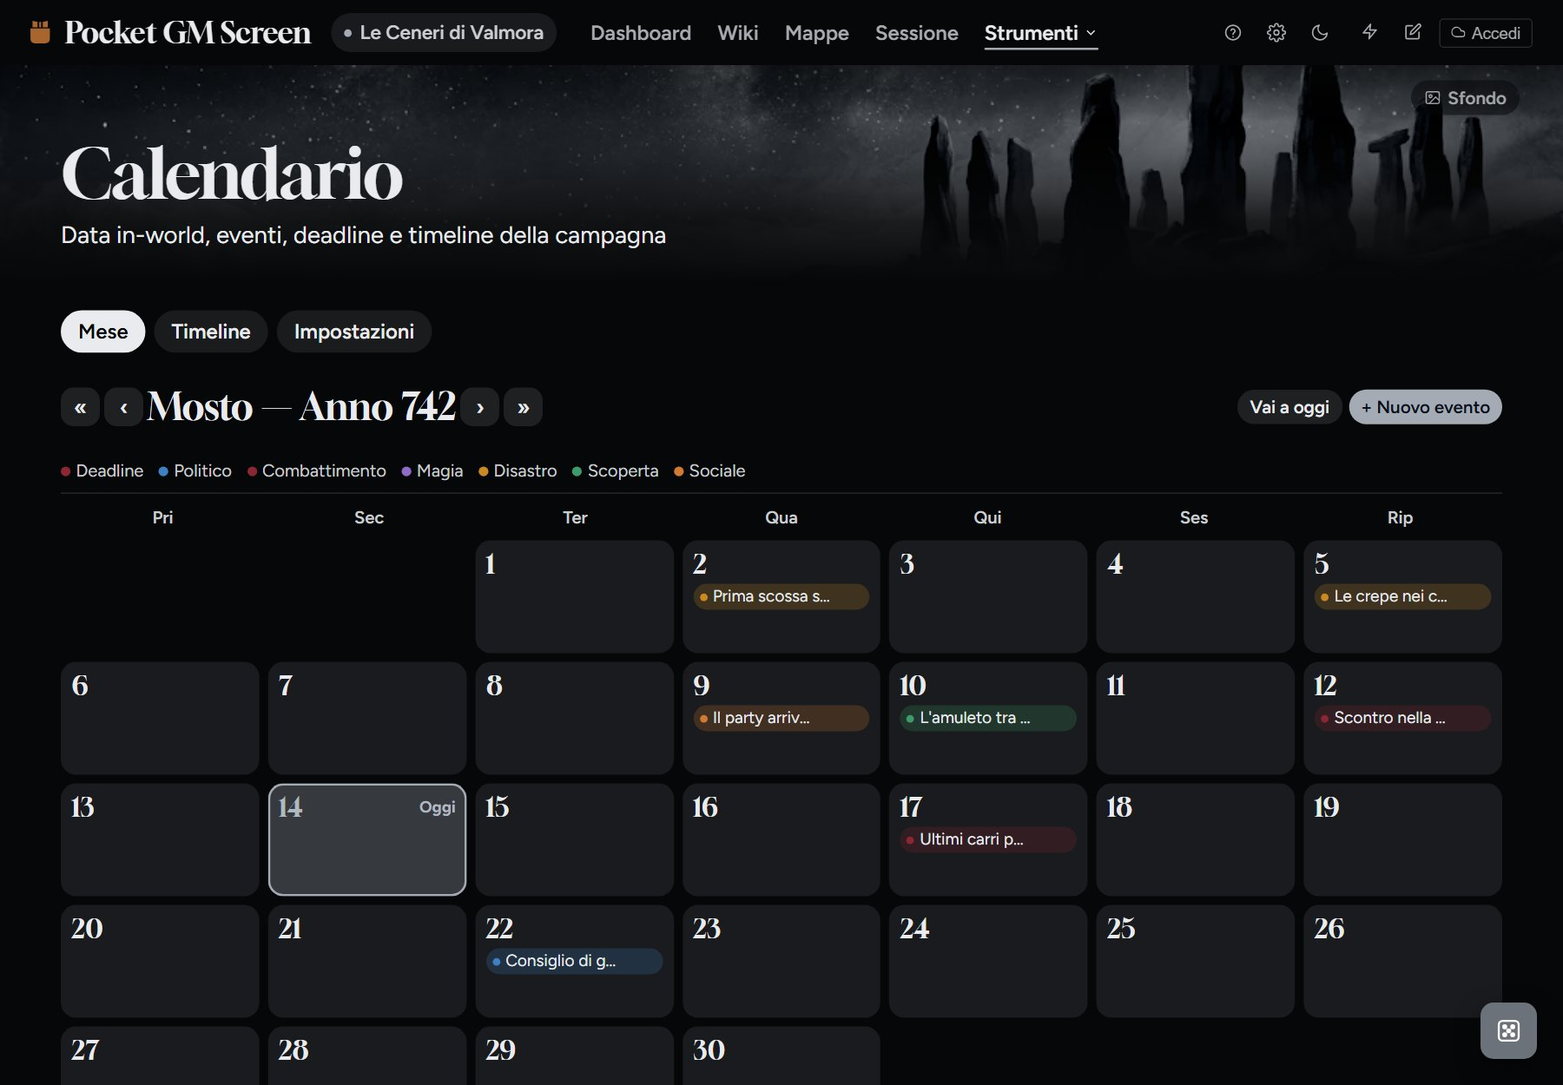
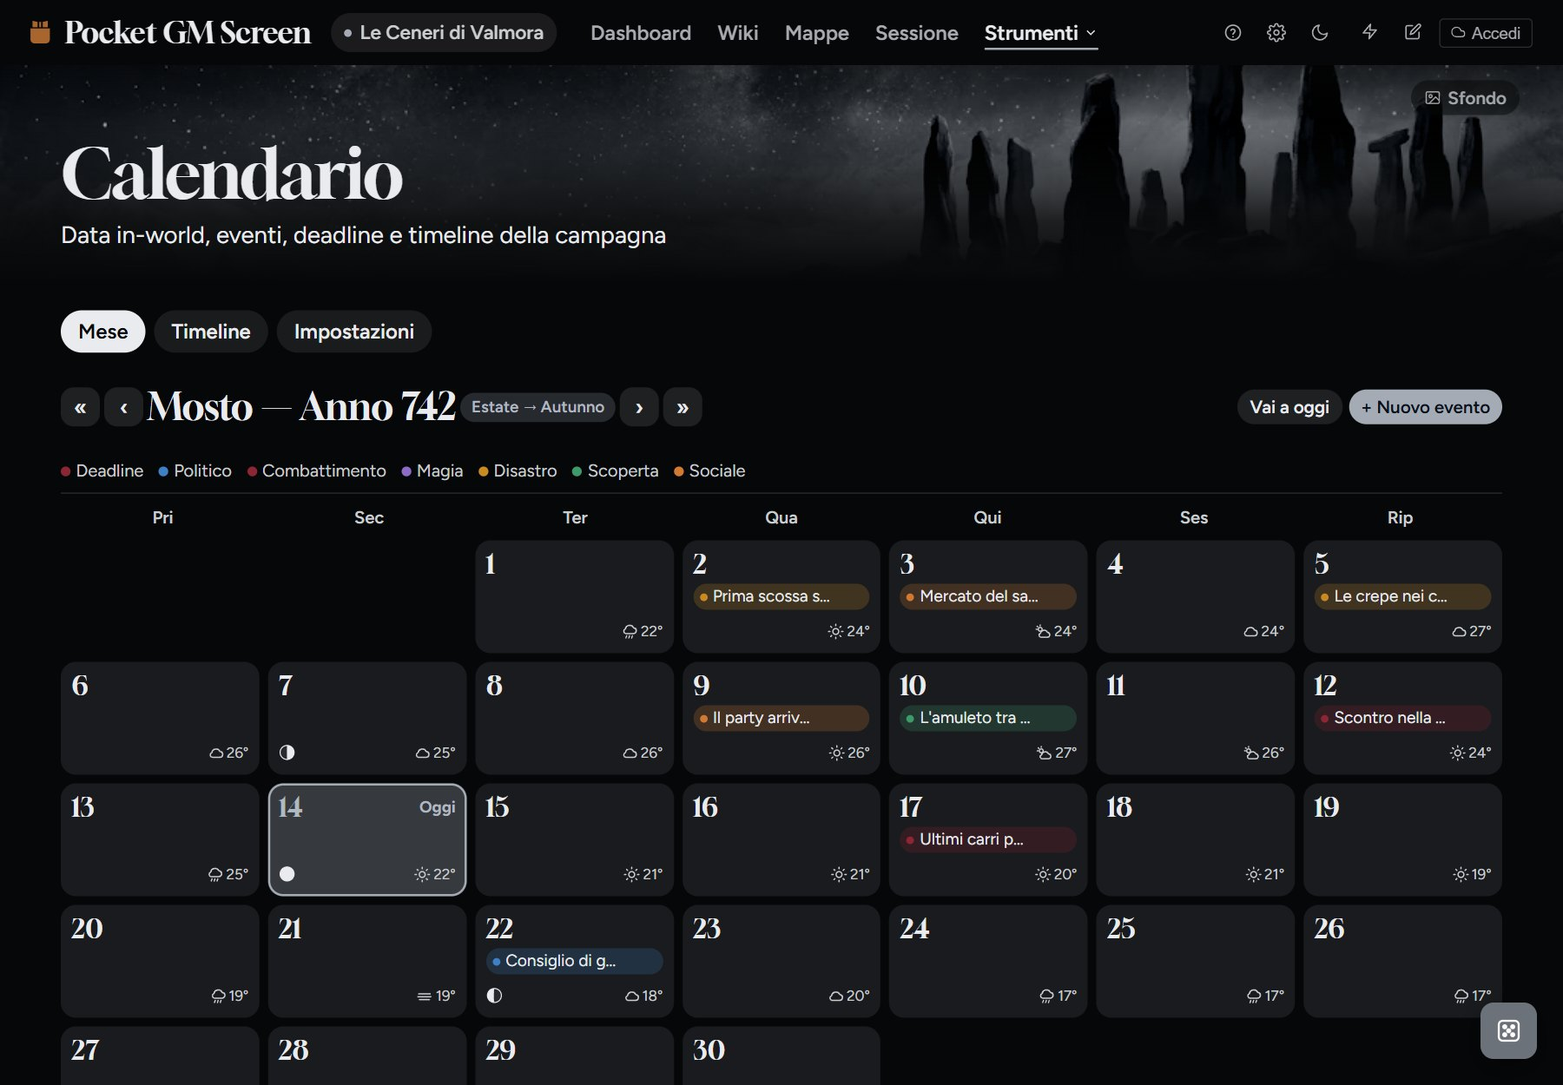
README e sito di presentazione aggiornati con le novità: esagoni ed esplorazione, confini dei regni, città con cimitero e baraccopoli, dungeon su più livelli, ritocchi, tavolo virtuale e stampa in scala, calendario con lune, meteo, bisestili, ere ed eventi ricorrenti, nuovi documenti dello Scrittoio
Claude-Session: https://claude.ai/code/session_018s2b7TkTFsw8VGthisxdvy

diff --git a/scopri/funzioni.html b/scopri/funzioni.html
@@ -32,7 +32,7 @@
 <div class="wrap testa-pagina">
   <h1>Le funzioni di Pocket GM Screen</h1>
   <p class="lead">Dalla preparazione al tavolo. Puoi vederle tutte all’opera nella campagna di esempio.</p>
-  <ul class="indice"><li><a href="#wiki">Wiki e mondo</a></li><li><a href="#mappe">Mappe e Cartografo</a></li><li><a href="#scrittoio">Scrittoio</a></li><li><a href="#sessioni">Sessioni e combattimento</a></li><li><a href="#generatori">Generatori e tabelle</a></li><li><a href="#compendio">Compendio</a></li><li><a href="#tavolo">Sessione Zero e tavolo</a></li><li><a href="#musica">Musica e atmosfere</a></li><li><a href="#giocatori">Giocatori e condivisione</a></li></ul>
+  <ul class="indice"><li><a href="#wiki">Wiki e mondo</a></li><li><a href="#mappe">Mappe e Cartografo</a></li><li><a href="#scrittoio">Scrittoio</a></li><li><a href="#sessioni">Sessioni e combattimento</a></li><li><a href="#calendario">Calendario</a></li><li><a href="#generatori">Generatori e tabelle</a></li><li><a href="#compendio">Compendio</a></li><li><a href="#tavolo">Sessione Zero e tavolo</a></li><li><a href="#musica">Musica e atmosfere</a></li><li><a href="#giocatori">Giocatori e condivisione</a></li></ul>
 </div>
 <section id="wiki"><div class="wrap funzione">
   <div>
@@ -57,7 +57,13 @@
     <ul>
       <li><strong>Dal regno alla locanda:</strong> clicchi il segnaposto di un luogo e generi la sua mappa, già collegata e con ciò che si vede dall’alto, come mare e fiume.</li>
       <li><strong>Pronte da usare:</strong> scala impostata e luoghi segnati dai segnaposto con le loro note. A richiesta crea anche le schede nella Wiki.</li>
-      <li><strong>Percorsi e viaggi:</strong> clicchi una tappa dopo l’altra, sui segnaposto o lungo la strada, e vedi i km di ogni tratto e quanto ci vuole a piedi, a cavallo, in barca o in nave, secondo il terreno.</li>
+      <li><strong>Percorsi e viaggi:</strong> clicchi una tappa dopo l’altra, sui segnaposto o lungo la strada, e vedi i km di ogni tratto e quanto ci vuole a piedi, a cavallo, in barca o in nave, secondo il terreno. Il tempo del viaggio passa anche nel calendario.</li>
+      <li><strong>Esagoni ed esplorazione:</strong> una griglia esagonale da accendere su ogni mappa. Segni gli esagoni esplorati, sposti il gruppo e vedi quanto dura il viaggio, scrivi note che vedi solo tu.</li>
+      <li><strong>Regni con i confini:</strong> da due a sei regni, con confini che seguono monti e fiumi e il nome di ogni regno sulla mappa.</li>
+      <li><strong>Città vere:</strong> mura, castello, porto, il cimitero fuori dalle porte e le baracche addossate alle mura.</li>
+      <li><strong>Dungeon su più livelli:</strong> fino a tre, collegati dalle scale.</li>
+      <li><strong>Ritocchi:</strong> rinomini o nascondi i nomi sulla mappa e aggiungi scritte tue con un tocco.</li>
+      <li><strong>Al tavolo, anche con le miniature:</strong> dungeon e case si esportano per Foundry, Roll20 e gli altri tavoli virtuali, con muri e porte già pronti, o si stampano in scala su fogli A4 da unire.</li>
       <li><strong>Tre colori:</strong> Carta, chiara e da stampare; Colori, con prati, boschi e mari colorati; Notte, su blu notte. Montagne, boschi e città si riconoscono a colpo d’occhio.</li>
       <li><strong>Nomi per ogni popolo:</strong> all’italiana, elfici, nanici, orcheschi o nordici. La mappa di un luogo eredita i nomi della regione da cui nasce.</li>
       <li><strong>Il caso, se vuoi:</strong> scegli ogni opzione oppure lasciala al caso, tenendo i tuoi colori.</li>
@@ -71,8 +77,10 @@
     <h2>Scrittoio</h2>
     <p>Quello che i giocatori possono tenere in mano, scritto con i nomi della tua campagna.</p>
     <ul>
-      <li><strong>Stemmi:</strong> forma, colori, simbolo, corona, mantello e motto, per fazioni e luoghi. Se ne hai uno tuo, caricalo nella scheda.</li>
-      <li><strong>Documenti:</strong> lettere sigillate, taglie, editti, avvisi da bacheca e mappe del tesoro, con il testo sempre modificabile.</li>
+      <li><strong>Stemmi:</strong> forma, colori, simbolo, corona, mantello e motto, per fazioni e luoghi, con la blasonatura scritta sotto. Se ne hai uno tuo, caricalo nella scheda.</li>
+      <li><strong>Documenti:</strong> lettere sigillate, taglie, editti, avvisi da bacheca, mappe del tesoro, gazzette, contratti e menu della locanda, con macchie di sangue, vino o cera se vuoi.</li>
+      <li><strong>Scrivi tu:</strong> ogni testo si cambia, puoi partire da un foglio bianco e riaprire quello che hai salvato.</li>
+      <li><strong>Da passare al tavolo:</strong> a schermo intero sul tablet, oppure nella pagina dei giocatori.</li>
       <li><strong>Sigilli veri:</strong> lo stemma di una fazione finisce sui suoi editti e sulla ceralacca delle sue lettere.</li>
     </ul>
   </div>
@@ -94,6 +102,20 @@
   </div>
   <figure><img loading="lazy" src="img/app-sessione.jpg" width="1800" height="1250" alt="La Sessione Live con l’ordine di iniziativa e i punti ferita."></figure>
 </div></section>
+<section id="calendario"><div class="wrap funzione">
+  <div>
+    <h2>Calendario</h2>
+    <p>Il tempo del tuo mondo, con il cielo e il tempo che fa.</p>
+    <ul>
+      <li><strong>Il tuo calendario:</strong> mesi, settimane, festività, anni bisestili ed ere, oppure un calendario già pronto.</li>
+      <li><strong>Lune, stagioni e meteo:</strong> le fasi di ogni luna e il tempo di ogni giorno, secondo il clima, sempre uguale per la stessa data.</li>
+      <li><strong>Eventi e scadenze:</strong> con promemoria e conseguenze, anche ricorrenti ogni anno o ogni mese.</li>
+      <li><strong>Il tempo passa:</strong> con i riposi, i viaggi e i pulsanti dello schermo del DM.</li>
+      <li><strong>Timeline:</strong> eventi e sessioni su una linea, leggibile a ogni zoom.</li>
+    </ul>
+  </div>
+  <figure><img loading="lazy" src="img/app-calendario.jpg" width="1800" height="1250" alt="Il calendario del mese con le fasi della luna, il meteo di ogni giorno e gli eventi."></figure>
+</div></section>
 <section id="generatori"><div class="wrap funzione">
   <div>
     <h2>Generatori e tabelle</h2>
@@ -101,7 +123,7 @@
     <ul>
       <li><strong>22 generatori:</strong> PNG, meteo, negozi, bottino, incontri, trappole, enigmi, taverne, voci di corridoio e altri ancora.</li>
       <li><strong>Usano la tua campagna:</strong> i nomi non ripetono quelli dei tuoi PNG, e le voci di corridoio citano le tue schede.</li>
-      <li><strong>Le mie tabelle:</strong> le tabelle casuali del tuo mondo, con dadi, pesi e tabelle che ne richiamano altre. Si importano anche da CSV.</li>
+      <li><strong>Le mie tabelle:</strong> le tabelle casuali del tuo mondo, con dadi, pesi e tabelle che ne richiamano altre. Pescano i nomi della tua campagna, tirano più volte senza doppioni e si importano da Excel o Google Fogli.</li>
     </ul>
   </div>
   <figure><img loading="lazy" src="img/app-generatori.jpg" width="1800" height="1250" alt="La pagina dei Generatori con le tabelle personali."></figure>
@@ -151,7 +173,7 @@
     <ul>
       <li><strong>Vista giocatori:</strong> un link di sola lettura con riassunti, iniziativa in diretta, luoghi, documenti e mappe che scegli tu.</li>
       <li><strong>I segreti restano tuoi:</strong> i giocatori non vedono mai la campagna: ricevono una copia ridotta, senza i riquadri Segreto DM.</li>
-      <li><strong>Co-autori:</strong> con il codice invito un altro DM lavora con te in tempo reale.</li>
+      <li><strong>Co-autori:</strong> mandi un invito e un altro master lavora con te in tempo reale, con il suo account. Gli inviti si annullano quando vuoi.</li>
       <li><strong>Google Drive:</strong> la campagna e le immagini stanno sul tuo Drive e arrivano su ogni dispositivo.</li>
     </ul>
   </div>

diff --git a/scopri/index.html b/scopri/index.html
@@ -102,7 +102,7 @@
     <div class="wrap due">
       <div>
         <h2>Mappe generate, dal regno alla locanda</h2>
-        <p class="lead">Scegli un segnaposto e scendi di livello. La mappa nuova nasce già collegata a quella sopra, con nomi e distanze. Traccia un percorso a tappe e vedi quanti giorni servono a piedi, a cavallo o per mare.</p>
+        <p class="lead">Scegli un segnaposto e scendi di livello. La mappa nuova nasce già collegata a quella sopra, con nomi e distanze. Traccia un percorso a tappe e vedi quanti giorni servono a piedi, a cavallo o per mare, oppure esplora esagono per esagono. Dungeon e case vanno anche sui tavoli virtuali o in stampa, in scala per le miniature.</p>
         <div class="tappe" role="tablist" aria-label="Passi: Mappe generate, dal regno alla locanda">
           <button class="tappa" role="tab" type="button" aria-controls="lastra-mappe"><strong>Regno</strong><span>Isole, coste e continenti, con strade e rotte.</span></button>
           <button class="tappa" role="tab" type="button" aria-controls="lastra-mappe"><strong>Città</strong><span>Vie, rioni, mura e porti: anche villaggi e caverne.</span></button>
@@ -164,7 +164,7 @@
       <div class="testa-due">
         <h2>Stemmi e documenti per i tuoi giocatori</h2>
         <div>
-          <p class="lead">Lettere sigillate, taglie, editti e mappe del tesoro, scritti con i nomi della tua campagna. Se hai già uno stemma, caricalo nella scheda della fazione.</p>
+          <p class="lead">Lettere sigillate, taglie, editti, gazzette, contratti e mappe del tesoro, scritti con i nomi della tua campagna o da te. Se hai già uno stemma, caricalo nella scheda della fazione.</p>
           <button class="bott bott--filo" type="button" id="altro-stemma">Disegna un altro stemma</button>
         </div>
       </div>

diff --git a/README.md b/README.md
@@ -37,6 +37,10 @@ Per vederla in azione: apri l'app e, nella Home vuota, scegli **"Prova con una c
     <td><img src="scopri/img/app-tiro.jpg" alt="Una tabella casuale tirata nella pagina Generatori"><br><b>Generatori</b>: le tue tabelle casuali, a un clic</td>
     <td><img src="docs/img/scrittoio.jpg" alt="Uno stemma creato nello Scrittoio"><br><b>Scrittoio</b>: stemmi e documenti per i giocatori</td>
   </tr>
+  <tr>
+    <td><img src="docs/img/esagoni.jpg" alt="Un regno con la griglia di esagoni, gli esagoni esplorati e il segnalino del gruppo"><br><b>Esagoni</b>: esplorazione esagono per esagono, con i tempi di viaggio</td>
+    <td><img src="docs/img/calendario.jpg" alt="Il calendario con le fasi della luna, il meteo di ogni giorno e un mercato che si ripete ogni mese"><br><b>Calendario</b>: lune, stagioni e meteo legati alla data</td>
+  </tr>
 </table>
 
 ---
@@ -47,12 +51,12 @@ Per vederla in azione: apri l'app e, nella Home vuota, scegli **"Prova con una c
 |---|---|
 | Wiki | Editor completo, [[collegamenti]], @menzioni, tag, grafo, modelli, import da foglio di calcolo |
 | Mondo | PNG, Luoghi, Fazioni, Quest, PG, Trame, Incontri |
-| Mappe | Mappe interattive con segnaposto, mappe annidate, misura distanze, zoom con due dita |
-| Cartografo | Genera mappe di regni, città, villaggi, caverne, dungeon ed edifici e le mette nelle tue mappe |
-| Scrittoio | Stemmi per fazioni e luoghi; lettere, taglie, editti, avvisi e mappe del tesoro scritti con i nomi della campagna |
-| Calendario | Calendario in-world personalizzabile, eventi, scadenze, timeline |
+| Mappe | Mappe interattive con segnaposto, mappe annidate, percorsi e tempi di viaggio, esagoni ed esplorazione, zoom con due dita |
+| Cartografo | Genera regni (con i confini tra i regni), città, villaggi, caverne, dungeon su più livelli ed edifici; ritocchi, tavolo virtuale, stampa in scala |
+| Scrittoio | Stemmi con la blasonatura; lettere, taglie, editti, avvisi, gazzette, contratti, menu e mappe del tesoro, scritti con i nomi della campagna o da te |
+| Calendario | Calendario in-world personalizzabile con lune, stagioni, meteo, anni bisestili ed ere; eventi anche ricorrenti, scadenze, timeline |
 | Sessioni | Combat tracker, scene planner, diario delle sessioni, clock |
-| Generatori | 22 generatori pronti + **le tue tabelle casuali** |
+| Generatori | 22 generatori pronti + **le tue tabelle casuali**, con tiri multipli e variabili |
 | Compendio | SRD 5.1 e 5.2.1, homebrew |
 | Schermo del DM | Blocchi personalizzabili, trascinabili |
 | Sincronizzazione | Google Drive per i dati, Firebase come segnale in tempo reale |
@@ -105,7 +109,10 @@ Carica un'immagine come mappa interattiva. Puoi spostarla trascinando e ingrandi
 
 - **Segnaposto** collegabili a PNG, luoghi, fazioni o note; le coordinate sono in percentuale, quindi restano giuste su ogni schermo.
 - **Mappe annidate** — un segnaposto può aprire un'altra mappa (regione → città → taverna), con il pulsante per tornare indietro.
-- **Distanze e percorsi** — con **Percorso** clicchi una tappa dopo l'altra, segnaposto o punti qualsiasi della mappa: la linea si disegna sulla mappa con i km di ogni tratto e il totale. In **Tempi di viaggio** ogni tratto ha il suo terreno (strada, colline, montagna, mare aperto…): sulla terraferma si va a piedi o a cavallo, in mare in barca o in nave, con il passo lento, normale o veloce. I tratti in mare si vedono azzurri sulla mappa. Una giornata di viaggio è di 8 ore.
+- **Distanze e percorsi** — con **Percorso** clicchi una tappa dopo l'altra, segnaposto o punti qualsiasi della mappa: la linea si disegna sulla mappa con i km di ogni tratto e il totale. In **Tempi di viaggio** ogni tratto ha il suo terreno (strada, colline, montagna, mare aperto…): sulla terraferma si va a piedi o a cavallo, in mare in barca o in nave, con il passo lento, normale o veloce. I tratti in mare si vedono azzurri sulla mappa. Una giornata di viaggio è di 8 ore, e **Fai passare il viaggio nel Calendario** fa avanzare la data e l'ora della campagna.
+- **Esagoni ed esplorazione** — con **Esagoni** la mappa si copre di una griglia esagonale, che si accende e si spegne per ogni mappa. Tocchi un esagono per segnarlo come esplorato, per spostarci il gruppo o per scriverci una nota che vedi solo tu. Spostando il gruppo l'app calcola il tempo di viaggio secondo il terreno e, se vuoi, fa avanzare il Calendario. La griglia ha il lato in km, si mette con il lato o con la punta in alto, mostra i numeri degli esagoni (0101, 0102…) e si sposta per allinearla a una griglia già disegnata sulla mappa.
+
+![Un regno con la griglia di esagoni: gli esagoni esplorati sono velati di giallo e il segnalino del gruppo sta nel suo esagono](docs/img/esagoni.jpg)
 
 ### Cartografo
 
@@ -120,6 +127,12 @@ Crea una mappa da zero, senza caricare nulla: **regno** (isola, continente, arci
 - **Metti nelle mappe** la porta nella pagina Mappa con la scala già impostata e i luoghi segnati dai pin con le loro note. A richiesta crea anche le schede Luogo nella Wiki.
 - **Genera la sua mappa**: clicca un pin e crea la mappa di quel luogo, già collegata. La città nata da un regno eredita ciò che lì si vede, come il mare e il fiume. Così si scende dal regno alla città fino alla locanda, e si torna indietro.
 - **Scarica PNG o SVG** per stamparla o usarla altrove. Il codice della mappa, con le stesse opzioni, ridà la stessa mappa.
+- **Ritocca** — dopo averla generata, rinomini o nascondi ogni nome scritto sulla mappa e aggiungi scritte tue toccando il punto giusto. I segnaposto seguono i nomi nuovi, e i ritocchi restano anche cambiando colori o opzioni.
+- **Confini tra i regni** — da 2 a 6 regni, ognuno con la sua capitale: i confini seguono creste e fiumi, ogni regno ha il suo nome sulla mappa e, a scelta, una tinta leggera.
+- **Città** con mura, castello, fiume, mare, **cimitero** fuori dalle porte (o camposanto dentro le mura) e **baraccopoli** addossata alle mura.
+- **Dungeon su più livelli** — fino a 3, uno accanto all'altro, con le scale che scendono al livello dopo.
+- **Tavolo virtuale** — dungeon e case si esportano in Universal VTT (.dd2vtt) con muri e porte già pronti, per Foundry, Roll20, Fantasy Grounds e gli altri tavoli virtuali.
+- **Stampa in scala** — dungeon e case su fogli A4 numerati da unire, un quadretto = 1,5 m = 2,5 cm, la misura delle miniature, con la griglia di combattimento a scelta. I fogli vuoti non si stampano.
 
 I generatori sono scritti apposta per il toolkit e funzionano senza servizi esterni. Senza Google Drive collegato, l'immagine messa nelle mappe resta solo sul dispositivo.
 
@@ -127,16 +140,22 @@ I generatori sono scritti apposta per il toolkit e funzionano senza servizi este
 
 ![Lo Scrittoio crea stemmi, poi una lettera, una taglia, un editto e una mappa del tesoro con i nomi della campagna](docs/img/demo-scrittoio.gif)
 
-- **Stemmi** con forma, colori, simbolo, corona, mantello e motto. Assegnato a una Fazione o a un Luogo, diventa l'immagine della sua scheda; quello di una Fazione diventa anche il sigillo dei suoi documenti. Se hai già uno stemma tuo, caricalo come immagine nella scheda della Fazione: finisce su editti e lettere.
-- **Documenti da consegnare ai giocatori**: lettere sigillate, taglie, editti, avvisi da bacheca e mappe del tesoro. Il testo nasce con i nomi di PNG, luoghi e fazioni della campagna e si può sempre modificare, così come la carta e il suo stato.
-- **Salva nella Wiki** lo mette tra le schede Lore, da cui la **Vista giocatori** può condividerlo. L'immagine si salva nella scheda solo con Google Drive collegato; altrimenti resta il testo e puoi scaricare il PNG.
+- **Stemmi** con forma, colori, simbolo, corona, mantello e motto, e sotto la **blasonatura** in araldica italiana ("D'azzurro, al leone d'oro"), scritta da sola e modificabile. Assegnato a una Fazione o a un Luogo, diventa l'immagine della sua scheda; quello di una Fazione diventa anche il sigillo dei suoi documenti. Se hai già uno stemma tuo, caricalo come immagine nella scheda della Fazione: finisce su editti e lettere.
+- **Documenti da consegnare ai giocatori**: lettere sigillate, taglie, editti, avvisi da bacheca, mappe del tesoro, **gazzette** su due colonne, **contratti** con clausole numerate e due firme, **menu della locanda** con i prezzi. Il testo nasce con i nomi di PNG, luoghi e fazioni della campagna e si può sempre modificare, così come la carta, il suo stato e gli **effetti** (sangue, vino, cera di candela, foglio bagnato).
+- **Foglio bianco** per scrivere quello che vuoi, e **Riapri** per modificare un documento salvato nella Wiki o lo stemma di una Fazione.
+- **Mostra ai giocatori** apre il documento a schermo intero, da girare verso il tavolo.
+
+![Una gazzetta nello Scrittoio, con il riquadro In breve e le macchie di vino](docs/img/scrittoio-gazzetta.jpg)
+- **Salva nella Wiki** lo mette tra le schede Lore e, con una spunta, anche nella **Vista giocatori**. L'immagine si salva nella scheda solo con Google Drive collegato; altrimenti resta il testo e puoi scaricare il PNG.
 
 ### Calendario e Timeline
 
 ![Il calendario della campagna di esempio](docs/img/calendario.jpg)
 
-- Calendario in-world con preset (Forgotten Realms, Greyhawk…) o **completamente personalizzato**: mesi, giorni della settimana, festività, data e ora di oggi.
-- **Eventi e scadenze** con promemoria; le scadenze vicine compaiono nella Dashboard.
+- Calendario in-world con preset (Forgotten Realms, Greyhawk…) o **completamente personalizzato**: mesi, giorni della settimana, festività, data e ora di oggi, **anni bisestili** ed **ere** ("Anno 12, Seconda Era").
+- **Lune, stagioni e meteo** legati alla data: una o più lune con le loro fasi, le stagioni, e il meteo di ogni giorno secondo il clima scelto, sempre uguale per la stessa data e con cambi graduali. Si vedono nella griglia del mese, nel giorno aperto e nel blocco Meteo dello Schermo del DM, e ognuno si accende e si spegne.
+- **Il tempo passa** con i pulsanti dello Schermo del DM (minuti, ore, giorni, **riposo breve** e **riposo lungo**) e con i viaggi della pagina Mappe.
+- **Eventi e scadenze** con promemoria; le scadenze vicine compaiono nella Dashboard. Un evento può **ripetersi** ogni anno (feste, anniversari) o ogni mese (mercati, tributi).
 - **Conseguenze programmate** — una scadenza può dire cosa succede se il party non interviene: prima della data compare come "Se scade…", dopo come "È successo…". Anche un clock pieno mostra la sua conseguenza.
 - **Timeline** di eventi e sessioni: gli eventi vicini nel tempo vanno su righe diverse, così i nomi non si sovrappongono mai. Lo zoom allarga solo il tempo, le scritte restano leggibili.
 
@@ -173,9 +192,12 @@ I generatori sono scritti apposta per il toolkit e funzionano senza servizi este
 
 - Dado d4, d6, d8, d10, d12, d20, d100 oppure **pesi liberi**.
 - Una voce per riga: con l'intervallo davanti (`1-3 Goblin`), solo il testo (le voci si dividono il dado), o con il peso (`3 Goblin`, esce tre volte più spesso).
-- Dentro una voce, `{2d6+1}` tira dei dadi e `[[Altra tabella]]` tira su un'altra delle tue tabelle.
+- Dentro una voce, `{2d6+1}` tira dei dadi, `[[Altra tabella]]` tira su un'altra delle tue tabelle e `{PNG}`, `{Luogo}`, `{Fazione}`, `{PG}` pescano un nome della tua campagna.
+- **Variabili**: una riga come `$capo = {PNG}` si tira una volta sola, e ogni `$capo` nelle voci diventa lo stesso nome.
+- **Più tiri insieme**, da 1 a 10, senza doppioni (o con, se la tabella lo chiede).
+- **Nelle note** mette il risultato nelle Note di sessione.
 - L'anteprima mostra gli intervalli e avvisa di numeri scoperti, doppi o tabelle richiamate che non esistono.
-- **Import da CSV** (anche da Excel), sempre rivisto prima di salvare.
+- **Import da CSV** (anche da Excel, Google Fogli e Numbers), sempre rivisto prima di salvare, con la guida **Come fare il file** e un file d'esempio da scaricare.
 - Ogni tabella può avere una **categoria**: compare anche nella scheda dei generatori corrispondente (per esempio gli incontri in "Viaggio & Incontri").
 - **Collegabili ai Luoghi**: "Incontri nella Foresta di Velmor" compare nella scheda della foresta, con il suo pulsante Tira.
 
@@ -256,7 +278,7 @@ Un account anonimo si può trasformare in account Google in qualsiasi momento se
 - **Ripristina da Drive** elenca i backup con data e peso, così si riconoscono subito quelli vuoti.
 - Senza Drive collegato, Firebase porta i dati della campagna, ma **mai le immagini e i file pesanti**: quelli restano sul dispositivo e passano su Drive appena lo colleghi. Così Firebase resta leggero e dentro la quota gratuita.
 
-**Collaborazione in tempo reale.** Ogni campagna ha un codice invito: un co-autore lo inserisce e accede alla stessa campagna. Le modifiche partono 2 secondi dopo ogni cambiamento; le modifiche dei due lati vengono unite voce per voce, senza sovrascriversi. Cancellare una campagna vale per tutti i dispositivi, anche quelli offline in quel momento. La presenza online è mostrata nella barra in alto.
+**Collaborazione in tempo reale.** Chi ha creato la campagna copia un invito (es. `ABC234-XYZ567`) e lo manda a un altro master, che entra con il suo account Google e vede e modifica la stessa campagna, anche se i dati stanno sul Drive di chi l'ha creata. Gli inviti si possono annullare, e ogni co-autore si può togliere. Le modifiche partono 2 secondi dopo ogni cambiamento; le modifiche dei due lati vengono unite voce per voce, senza sovrascriversi. Cancellare una campagna vale per tutti i dispositivi, anche quelli offline in quel momento. La presenza online è mostrata nella barra in alto.
 
 ---
 
